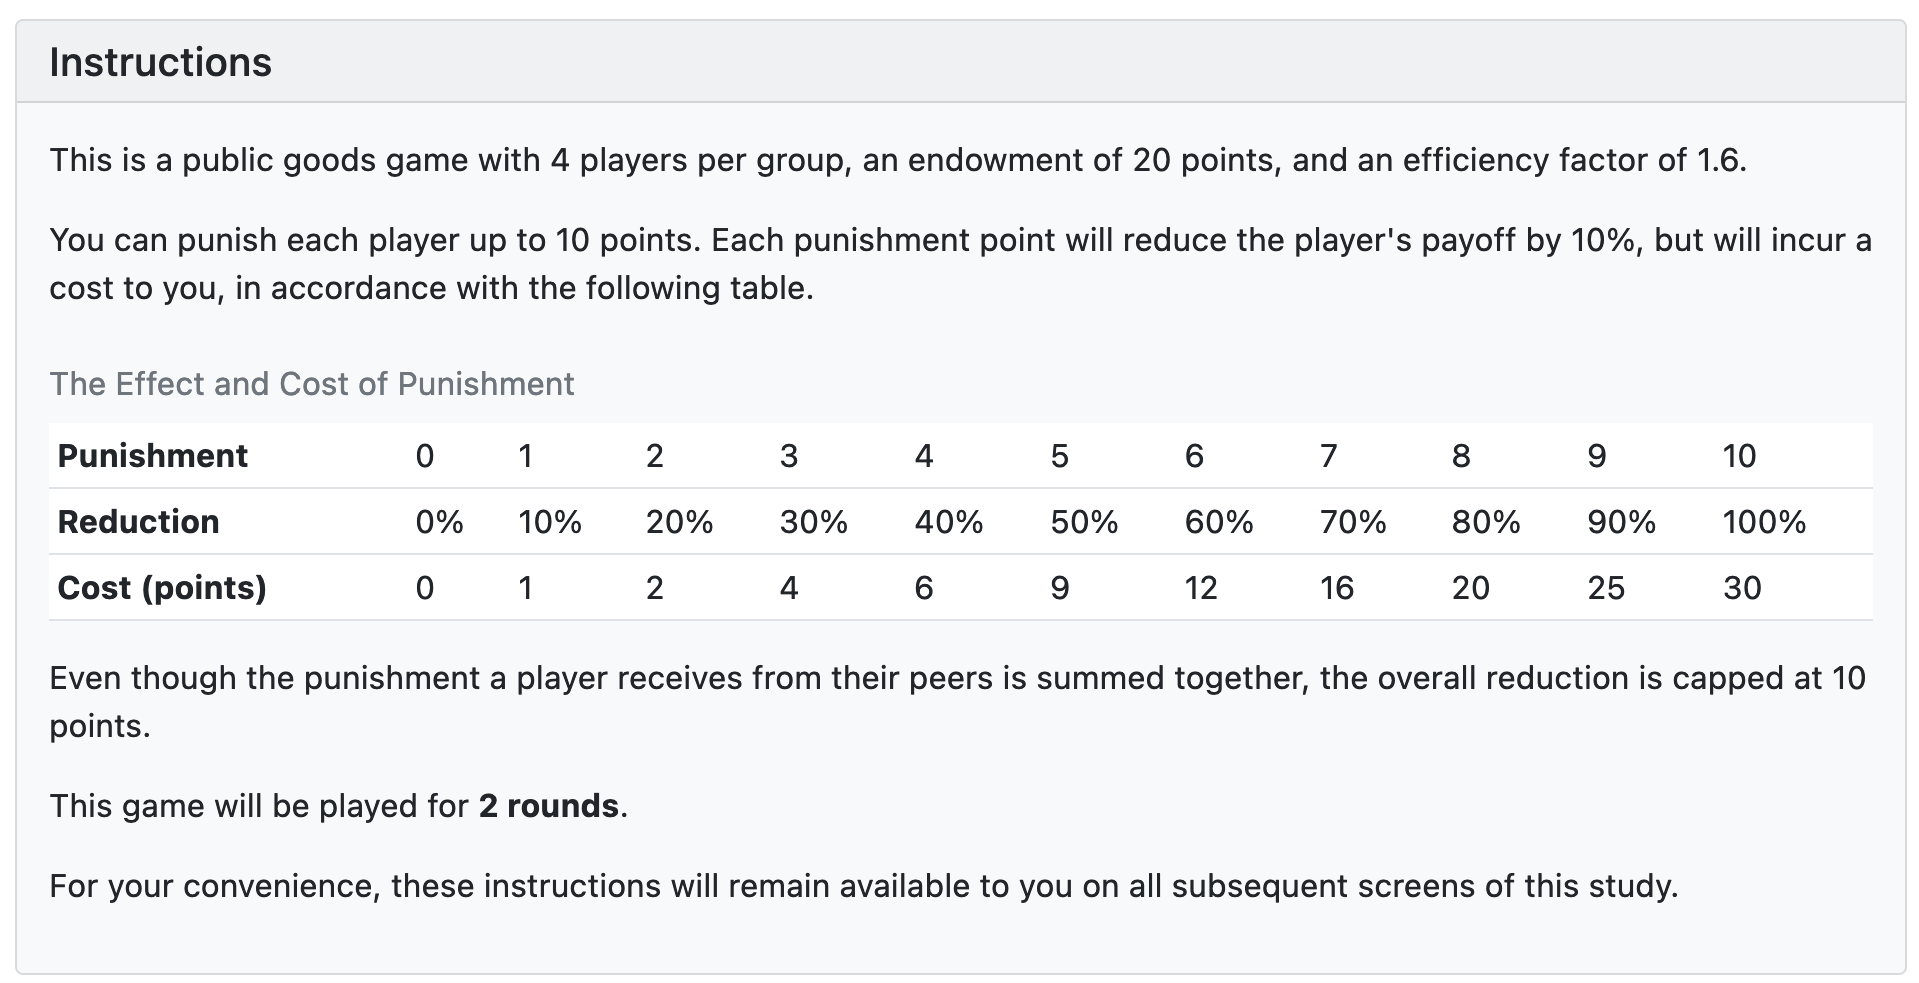
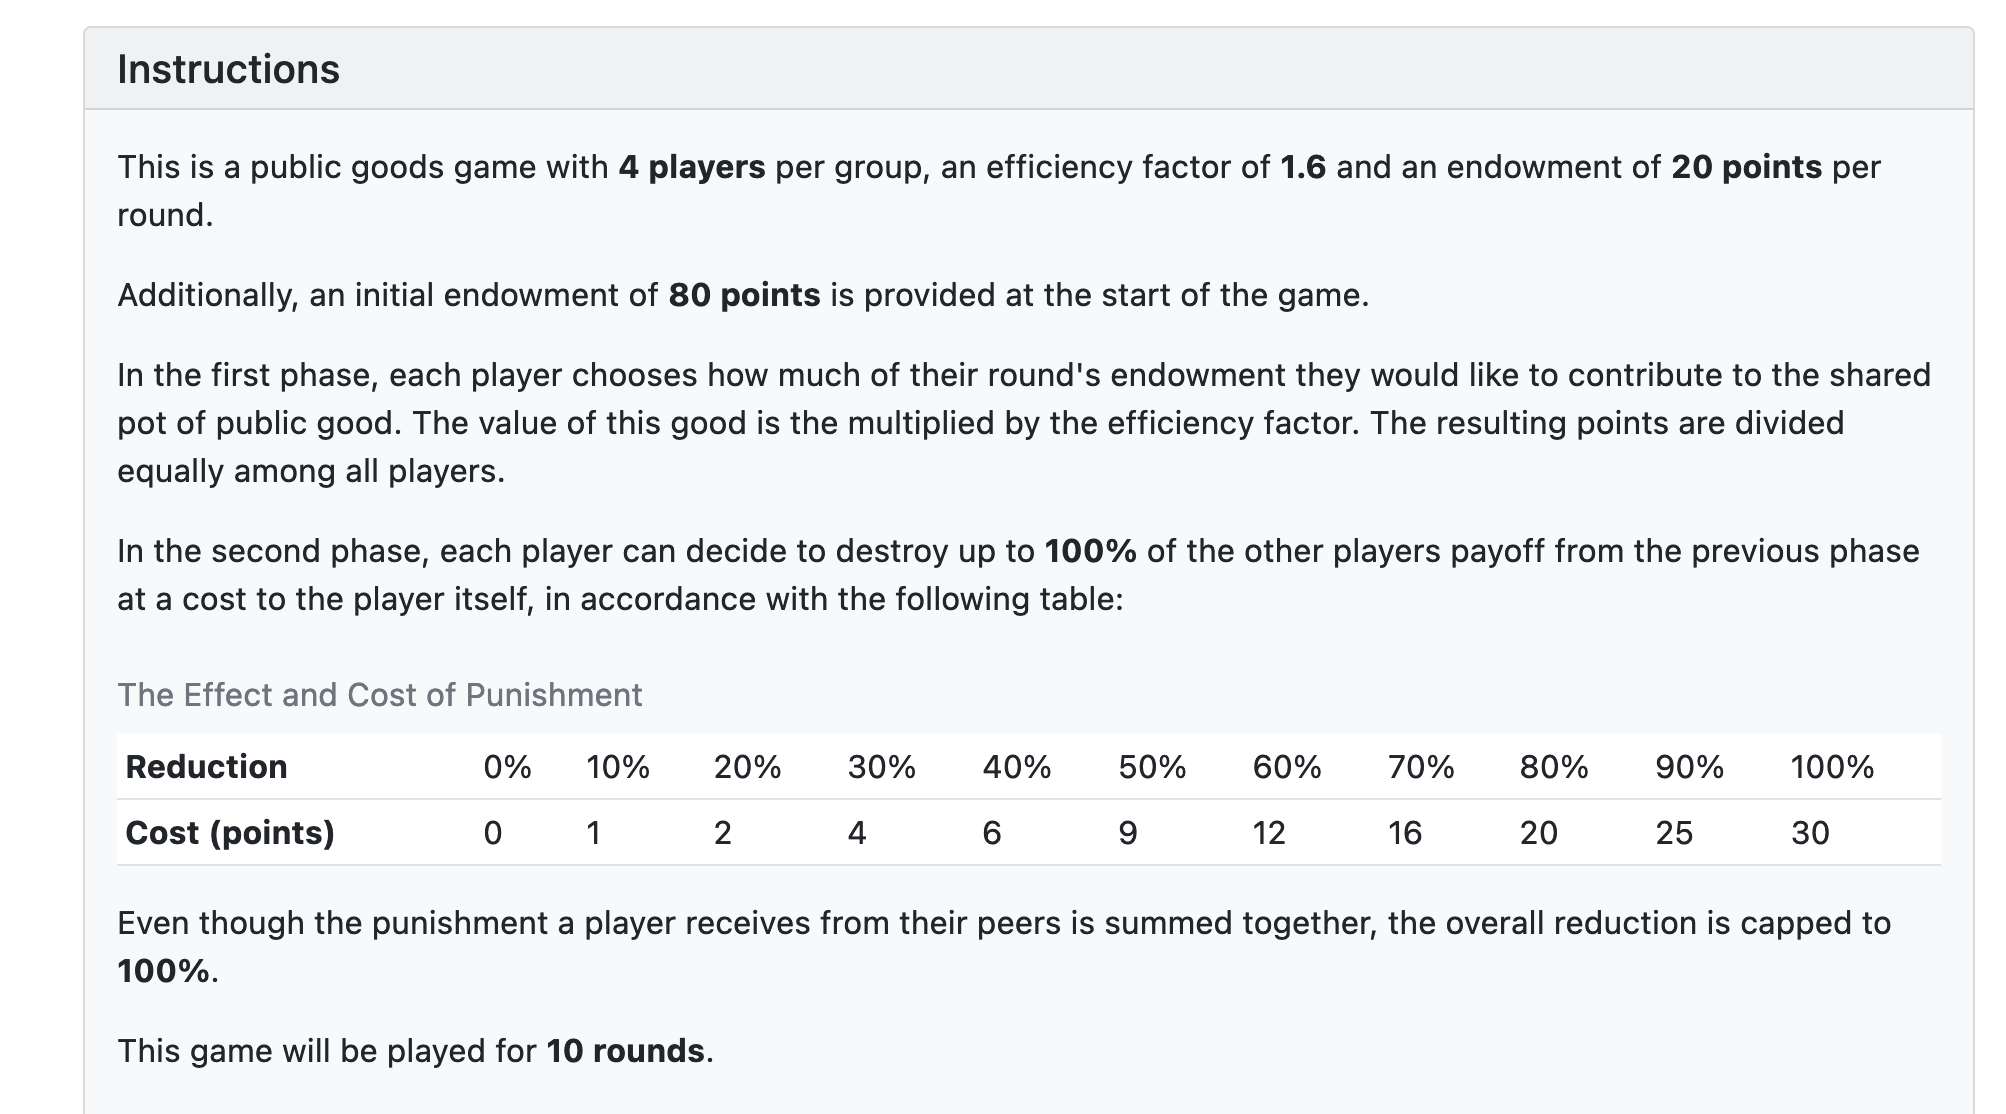
added more instruction pictures and changed some wording

diff --git a/syllabus/2-Economics/2.2-Game_Theory/2.2-Game_Theory_slides.md b/syllabus/2-Economics/2.2-Game_Theory/2.2-Game_Theory_slides.md
@@ -1306,7 +1306,7 @@ Notes:
 
 ---
 
-## Game 2: Payoffs
+## Game 2: Let's go!
 
 <center>
 <widget-image style="width: 30vw;" src="/assets/img/2-Economics/2.2-qr-academy_guess.png"></widget-image>
@@ -1328,8 +1328,10 @@ Notes:
 
 ---
 
+## Game 3: Instructions
+
 <center>
-<widget-image style="width: 80vw;" src="/assets/img/2-Economics/2.2-pgg-instructions.png"></widget-image>
+<widget-image style="width: 60vw;" src="/assets/img/2-Economics/2.2-pgg-instructions.png"></widget-image>
 </center>
 
 <!-- TODO CONTENT replace above with text & table (if needed) -->
@@ -1340,7 +1342,31 @@ Notes:
 
 ---
 
-## Game 3: Public Good Game
+## Game 3: Contribution
+
+<center>
+<widget-image style="width: 80vw;" src="/assets/img/2-Economics/2.2-pgg-contribution.png"></widget-image>
+</center>
+
+---
+
+## Game 3: Punishment
+
+<center>
+<widget-image style="width: 50vw;" src="/assets/img/2-Economics/2.2-pgg-punishment.png"></widget-image>
+</center>
+
+---
+
+## Game 3: Payout
+
+<center>
+<widget-image style="width: 80vw;" src="/assets/img/2-Economics/2.2-pgg-result.png"></widget-image>
+</center>
+
+---
+
+## Game 3: Let's go!
 
 <center>
 <widget-image style="width: 30vw;" src="/assets/img/2-Economics/2.2-qr-academy_academy_publicgood.png"></widget-image>
@@ -1372,7 +1398,7 @@ Notes:
 
 ---
 
-## Summary (all done!)
+## Summary
 
 Notes:
 
